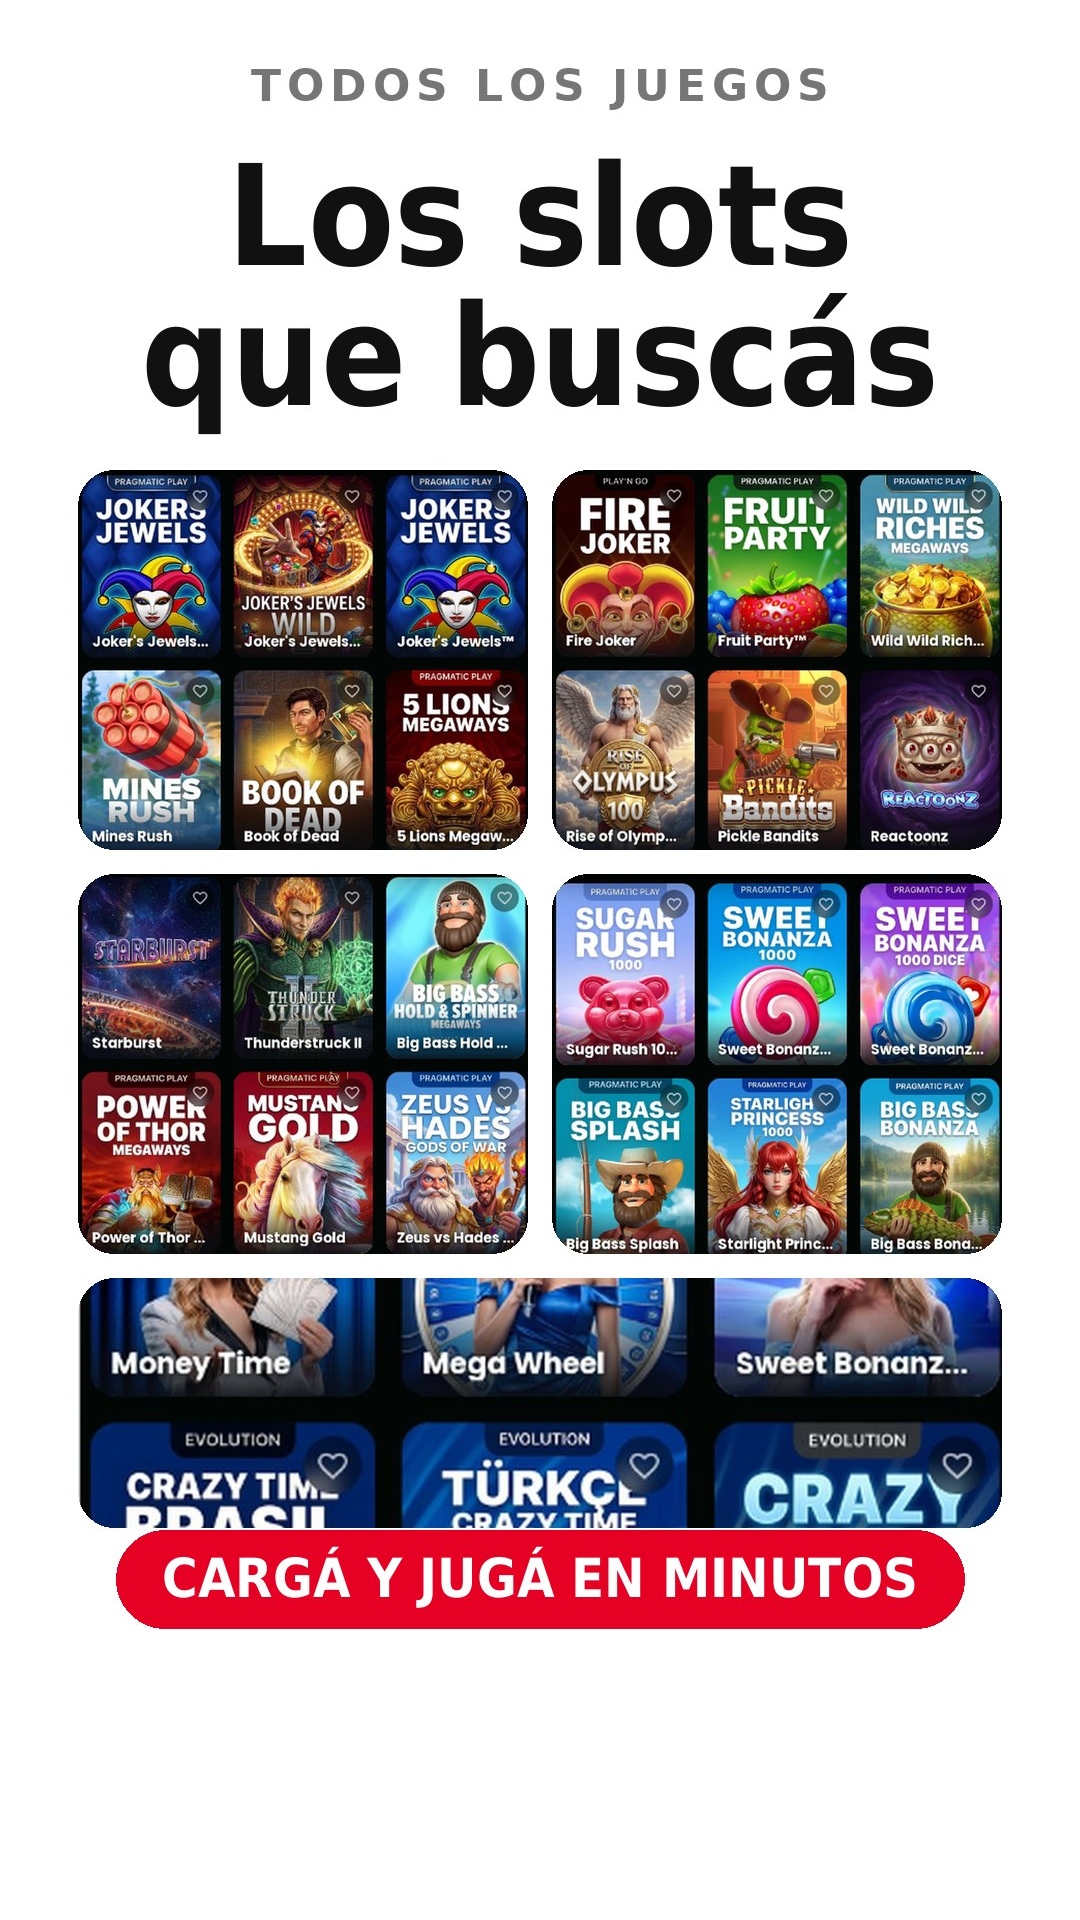
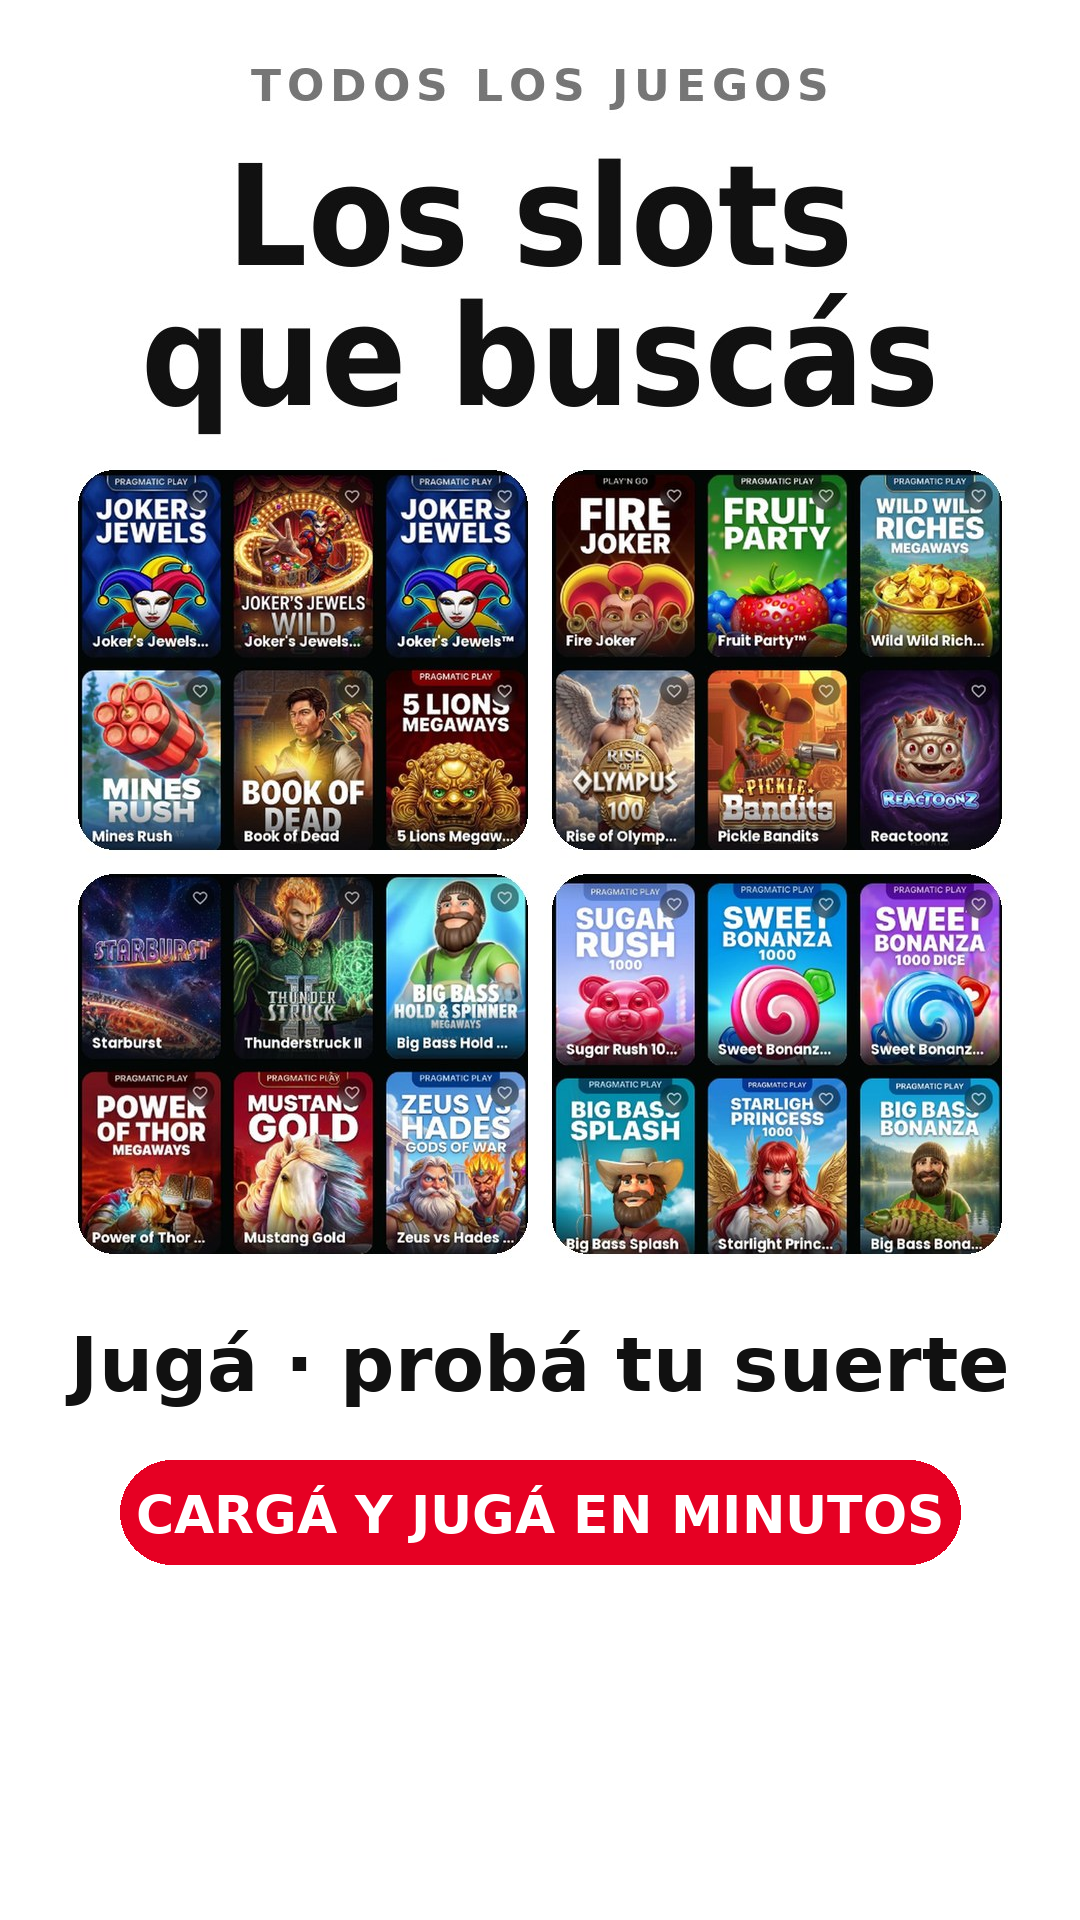
content(historias): foto 2 sin la fila cortada, 'Jugá · probá tu suerte' + botón; republicadas en orden — WORKLOG #457

Changed region(s): [[0.0611, 0.6562, 0.9472, 0.875]]

diff --git a/WORKLOG.md b/WORKLOG.md
@@ -8,6 +8,15 @@
 
 ## Sesión 2026-10-18
 
+### 457. 📖 Historia 2 (slots): sin la fila cortada, "Jugá · probá tu suerte" + botón; republicadas las 4 en orden
+**Pedido (owner, con captura):** "esa foto, abajo de Cargá y jugá, sacá ese fondo que está cortado y poné 'jugá, probá tu
+suerte'; si hay que eliminar, eliminá y volvé a subir, respetá el orden".
+**Qué se hizo:** pin-2.png regenerado desde el original en alta (recuperado de git): se quitó la fila de juegos en vivo que
+quedaba recortada, debajo de las 4 grillas va "Jugá · probá tu suerte" (76px) y el botón rojo "CARGÁ Y JUGÁ EN MINUTOS";
+franja inferior libre. Se borraron las 4 historias y se recrearon en el mismo orden (1 novedad · 2 slots · 3 pasos ·
+4 soporte), 72 h, con el cache-buster de #456.
+**Archivos:** `public/images/stories/pin-2.png`.
+
 ### 456. 📖 Historias rehechas de 0: sin pie interno (franja inferior libre), Soporte con los 3, republicadas con horario nuevo · arriba sólo el nombre — SW v325
 **Pedido (owner, con captura):** "cambiá las fotos y dejalas hasta donde aparece esta parte inferior, que no se superponga
 nada, actualizá las fotos de 0; borrar y publicar con horario actualizado; el logo arriba sacalo, dejá sólo el nombre; la
